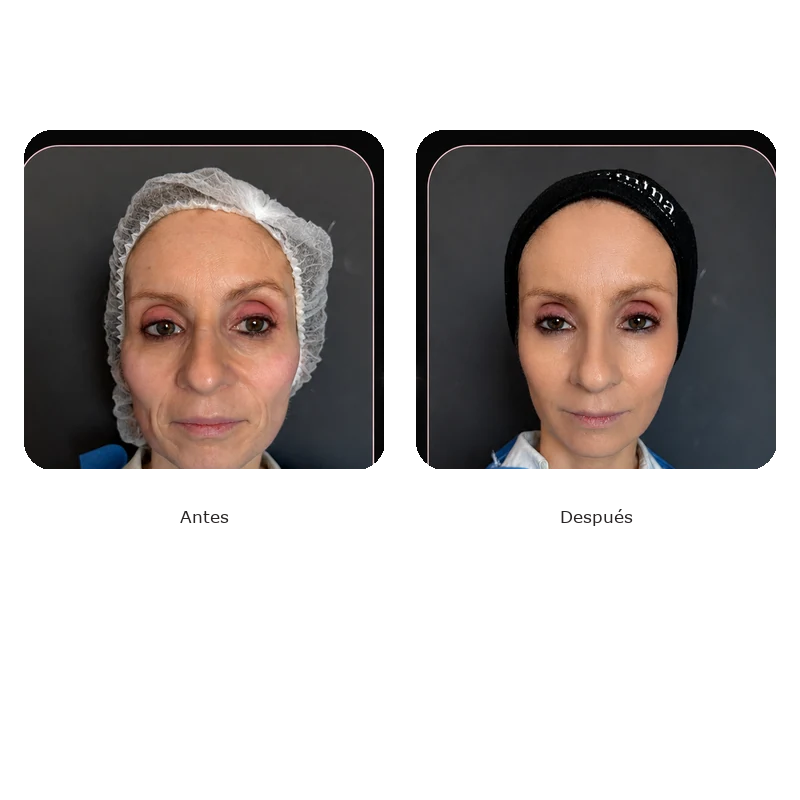
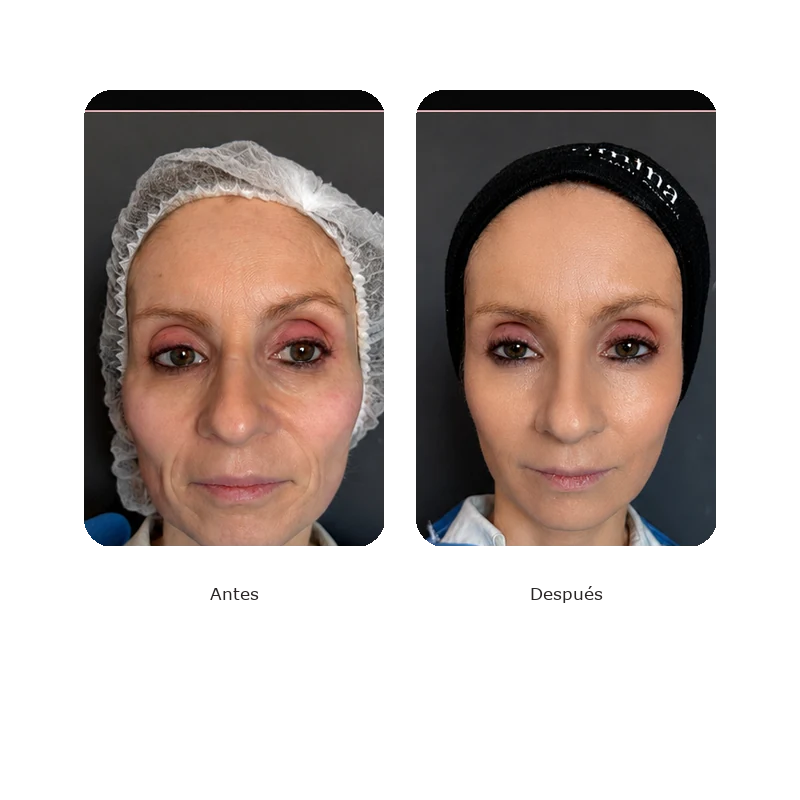
Fix 3 new cases: portrait crops + correct source-to-content mapping
- Tighter portrait crops (300x456 = 1.52:1 vertical, matches canonical
  12-18.webp aspect) instead of near-square 360x340.
- Revert previous swap: 19=mujer perfil 35 anios, 20=mujer 50+,
  21=hombre. Original source order in Downloads was correct.
- Update HTML descriptors to match: case 10 ahora "mujer 35 anios",
  case 12 ahora "hombre". Home ba-strip alineado tambien.

diff --git a/resultados.html b/resultados.html
@@ -688,22 +688,22 @@ nav.scrolled .hamburger span { background:var(--ink); }
             </div>
           </div>
         </article>
-        <article class="carousel-slide" data-treatment="Lifting Facial" data-case-title="Lifting facial masculino" data-case-copy="Caso real masculino con foco en lifting del tercio medio e inferior. Redefinición del óvalo y tensado mandibular visible.">
+        <article class="carousel-slide" data-treatment="Lifting Facial" data-case-title="Lifting facial mujer 35 años" data-case-copy="Caso real de paciente femenino de 35 años con foco en lifting del tercio medio e inferior. Refinamiento del óvalo y mejor definición mandibular en perfil.">
           <div class="carousel-seo">
-            <h3>Lifting facial masculino sin cirugía</h3>
-            <p>Caso real de paciente masculino con foco en el tercio medio e inferior, mostrando refinamiento del óvalo y reducción de papada — sin cirugía, en protocolo coreano.</p>
+            <h3>Lifting facial mujer 35 años sin cirugía</h3>
+            <p>Caso real de paciente femenino de 35 años con foco en el tercio medio e inferior, mostrando refinamiento del óvalo y mejor definición mandibular en vista de perfil — sin cirugía, en protocolo coreano.</p>
           </div>
           <div class="carousel-slide-inner single-case">
             <figure class="case-panel composite">
               <span class="case-label">Antes y después</span>
               <span class="case-order">Caso 10 de 12</span>
-              <img src="img/19.webp" alt="Antes y después de lifting facial masculino — Protocolo Lumina" width="800" height="800" loading="lazy" decoding="async">
+              <img src="img/19.webp" alt="Antes y después de lifting facial mujer 35 años — Protocolo Lumina" width="800" height="800" loading="lazy" decoding="async">
             </figure>
           </div>
           <div class="carousel-meta">
             <div class="carousel-text">
-              <h3>Lifting facial · Hombre</h3>
-              <p>Tercio medio e inferior. Resultado visible con redefinición del óvalo y mejor tensión cervical en paciente masculino.</p>
+              <h3>Lifting facial · Mujer 35 años</h3>
+              <p>Tercio medio e inferior, vista de perfil. Resultado visible con redefinición del óvalo y mejor definición mandibular.</p>
               <span class="carousel-tag">Eternal Gangnam · 18 sesiones</span>
             </div>
           </div>
@@ -728,22 +728,22 @@ nav.scrolled .hamburger span { background:var(--ink); }
             </div>
           </div>
         </article>
-        <article class="carousel-slide" data-treatment="Lifting Facial" data-case-title="Definición de óvalo y mandíbula" data-case-copy="Resultado de perfil con foco en definición mandibular y reducción de jowls en paciente joven.">
+        <article class="carousel-slide" data-treatment="Lifting Facial" data-case-title="Lifting facial masculino" data-case-copy="Caso real masculino con foco en lifting del tercio medio e inferior. Redefinición del óvalo y tensado mandibular visible.">
           <div class="carousel-seo">
-            <h3>Definición del óvalo facial · perfil</h3>
-            <p>Caso real mostrando definición del contorno mandibular y reducción de jowls en paciente joven, vista de perfil completa.</p>
+            <h3>Lifting facial masculino sin cirugía</h3>
+            <p>Caso real de paciente masculino con foco en el tercio medio e inferior, mostrando refinamiento del óvalo y reducción de papada — sin cirugía, en protocolo coreano.</p>
           </div>
           <div class="carousel-slide-inner single-case">
             <figure class="case-panel composite">
               <span class="case-label">Antes y después</span>
               <span class="case-order">Caso 12 de 12</span>
-              <img src="img/21.webp" alt="Antes y después de definición de óvalo facial, perfil — Protocolo Lumina" width="800" height="800" loading="lazy" decoding="async">
+              <img src="img/21.webp" alt="Antes y después de lifting facial masculino — Protocolo Lumina" width="800" height="800" loading="lazy" decoding="async">
             </figure>
           </div>
           <div class="carousel-meta">
             <div class="carousel-text">
-              <h3>Óvalo facial y mandíbula</h3>
-              <p>Tercio medio e inferior, vista de perfil. Refinamiento del contorno con mandíbula más definida y reducción de jowls.</p>
+              <h3>Lifting facial · Hombre</h3>
+              <p>Tercio medio e inferior. Resultado visible con redefinición del óvalo y mejor tensión cervical en paciente masculino.</p>
               <span class="carousel-tag">Eternal Gangnam · 18 sesiones</span>
             </div>
           </div>

diff --git a/index.html b/index.html
@@ -761,9 +761,9 @@ nav.scrolled .hamburger span { background:var(--ink); }
         </div>
       </div>
       <div class="ba-item" style="transition-delay:0.3s;">
-        <img src="img/19.webp" alt="Antes y después Lumina — Lifting facial masculino, tercio medio e inferior" width="800" height="800" loading="lazy" decoding="async">
+        <img src="img/19.webp" alt="Antes y después Lumina — Lifting facial mujer 35 años, tercio medio e inferior" width="800" height="800" loading="lazy" decoding="async">
         <div class="ba-label">
-          <span class="ba-zone">Lifting facial · Hombre</span>
+          <span class="ba-zone">Lifting facial · 35 años</span>
           <span class="ba-plan-name">Eternal Gangnam</span>
         </div>
       </div>
@@ -775,9 +775,9 @@ nav.scrolled .hamburger span { background:var(--ink); }
         </div>
       </div>
       <div class="ba-item" style="transition-delay:0.5s;">
-        <img src="img/21.webp" alt="Antes y después Lumina — Definición de óvalo facial, perfil" width="800" height="800" loading="lazy" decoding="async">
+        <img src="img/21.webp" alt="Antes y después Lumina — Lifting facial masculino, tercio medio e inferior" width="800" height="800" loading="lazy" decoding="async">
         <div class="ba-label">
-          <span class="ba-zone">Lifting óvalo · Perfil</span>
+          <span class="ba-zone">Lifting facial · Hombre</span>
           <span class="ba-plan-name">Eternal Gangnam</span>
         </div>
       </div>